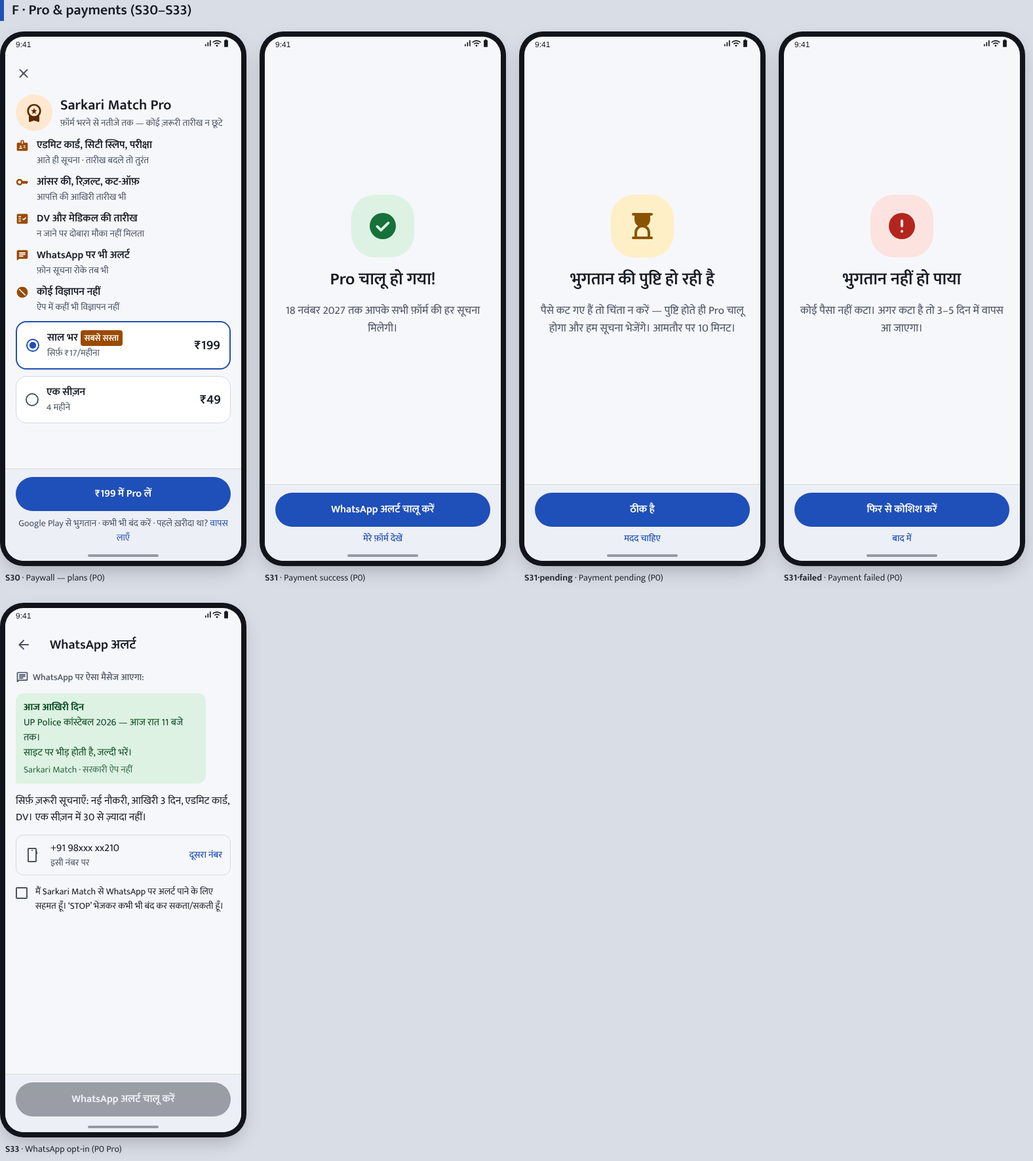
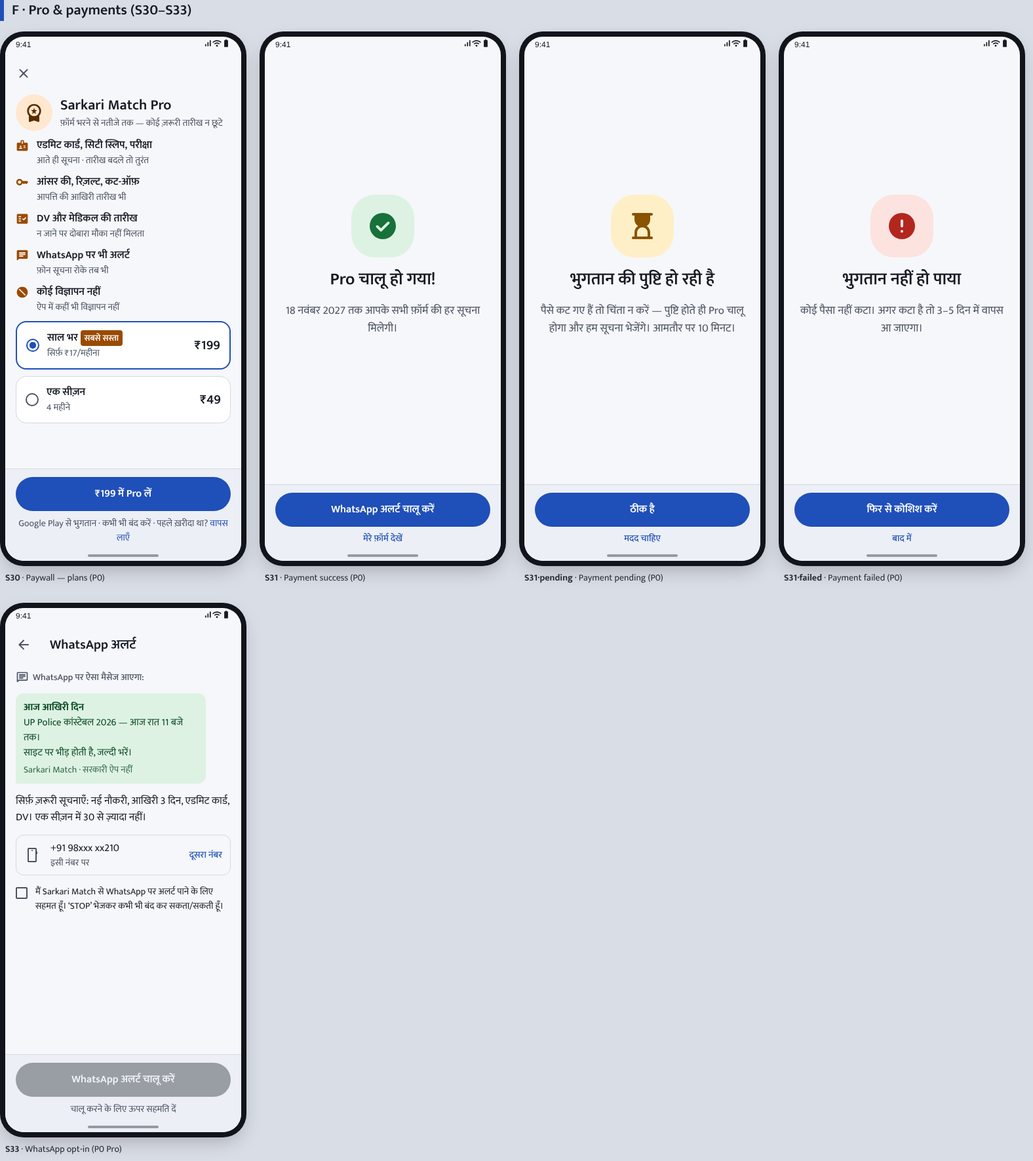
WIP: design and backend docs (in progress)
Claude-Session: https://claude.ai/code/session_01H5W9Z4TjtcufX7MnqXaKg7

Changed region(s): [[0.0, 0.9001, 0.2487, 0.9622]]

diff --git a/docs/design/prototype/index.html b/docs/design/prototype/index.html
@@ -310,7 +310,7 @@ figcaption b{font-weight:700}
 <div class="banner b-pro"><span class="ms f " aria-hidden="true">workspace_premium</span><span>Pro ट्रायल · 9 दिन बाकी</span><span class="act">प्लान देखें</span></div>
 <div class="card"><div class="tm">SSC CGL 2026</div><div class="bs mu" style="margin-top:-6px">भरा: 12 अग</div><div class="chips"><span class="chip b-pri"><span class="ms f " aria-hidden="true">badge</span>एडमिट कार्ड आ गया</span></div><div class="bs mu">अगला: परीक्षा — 2 दिसं</div><div class="dots"><i class="d"></i><i class="d"></i><i class="c"></i><i></i><i></i><i></i><i></i><i></i></div></div>
 <div class="card"><div class="tm">RRB Group D 2026</div><div class="bs mu" style="margin-top:-6px">भरा: 3 सितं</div><div class="chips"><span class="chip b-pri"><span class="ms f " aria-hidden="true">location_city</span>परीक्षा शहर की सूचना</span></div><div class="bs mu">अगला: एडमिट कार्ड — दिसं (संभावित)</div><div class="dots"><i class="d"></i><i class="c"></i><i></i><i></i><i></i><i></i><i></i><i></i></div></div></div><div class="bn"><div class="it"><div class="pill"><span class="ms " aria-hidden="true">work</span><span class="bd">5</span></div>नौकरियाँ</div><div class="it on"><div class="pill"><span class="ms f " aria-hidden="true">assignment_turned_in</span></div>मेरे फ़ॉर्म</div><div class="it"><div class="pill"><span class="ms " aria-hidden="true">account_circle</span></div>प्रोफ़ाइल</div></div><div class="nav" style="background:var(--surfaceContainer)"><i></i></div></div><figcaption><b>S22</b> · My forms — tracker (Pro/trial) (P0)</figcaption></figure><figure><div class="phone" style="--primary:#1F4FB8;--onPrimary:#FFFFFF;--primaryContainer:#DCE5FF;--onPrimaryContainer:#0B2A6E;--secondary:#4E5B78;--onSecondary:#FFFFFF;--secondaryContainer:#E1E6F3;--onSecondaryContainer:#1A2438;--tertiary:#9A4A00;--onTertiary:#FFFFFF;--tertiaryContainer:#FFE8CF;--onTertiaryContainer:#5C2C00;--error:#B3261E;--onError:#FFFFFF;--errorContainer:#FCE3E0;--onErrorContainer:#7A1410;--background:#F6F7FA;--onBackground:#151A23;--surface:#F6F7FA;--onSurface:#151A23;--surfaceVariant:#ECEFF5;--onSurfaceVariant:#4A5263;--surfaceContainerLowest:#FFFFFF;--surfaceContainerLow:#F1F3F8;--surfaceContainer:#ECEFF5;--surfaceContainerHigh:#E6E9F0;--surfaceContainerHighest:#E0E4EC;--outline:#737B8C;--outlineVariant:#D3D8E2;--inverseSurface:#2A2F38;--inverseOnSurface:#EFF1F6;--inversePrimary:#AEC4FF;--scrim:#000000;--success:#17713A;--onSuccess:#FFFFFF;--successContainer:#DDF2E3;--onSuccessContainer:#0B4A24;--warning:#8A5300;--onWarning:#FFFFFF;--warningContainer:#FFEFC7;--onWarningContainer:#5A3600;--urgent:#B93D0A;--onUrgent:#FFFFFF;--urgentContainer:#FFE6D8;--onUrgentContainer:#6E2304;--today:#B3261E;--onToday:#FFFFFF;--whatsappBrand:#25D366;"><div class="sb"><span>9:41</span><span><span class="ms " aria-hidden="true">signal_cellular_alt</span><span class="ms " aria-hidden="true">wifi</span><span class="ms " aria-hidden="true">battery_full</span></span></div><div class="tb"><div class="t">मेरे फ़ॉर्म</div></div><div class="content" style="padding-top:0">
-<div class="banner b-pro" style="align-items:flex-start"><span class="ms f " aria-hidden="true">workspace_premium</span><span>फ़ॉर्म भरने के बाद की सूचना (एडमिट कार्ड, रिज़ल्ट) Pro में मिलती है</span><span class="act">₹17/महीना से</span></div>
+<div class="banner b-pro" style="align-items:flex-start"><span class="ms f " aria-hidden="true">workspace_premium</span><span>एडमिट कार्ड, रिज़ल्ट की सूचना Pro में</span><span class="act">₹17/महीना से</span></div>
 <div class="card"><div class="tm">SSC CGL 2026</div><div class="bs mu" style="margin-top:-6px">भरा: 12 अग</div><div class="chips"><span class="chip b-pri"><span class="ms f " aria-hidden="true">task_alt</span>फ़ॉर्म भरा</span></div><div class="bs" style="display:flex;gap:6px;align-items:center;color:var(--tertiary)"><span class="ms f s16" aria-hidden="true">lock</span>अगला चरण: एडमिट कार्ड · सूचना Pro में</div><div class="dots"><i class="c"></i><i></i><i></i><i></i><i></i><i></i><i></i><i></i></div></div>
 <div class="card"><div class="tm">RRB Group D 2026</div><div class="bs mu" style="margin-top:-6px">भरा: 3 सितं</div><div class="chips"><span class="chip b-pri"><span class="ms f " aria-hidden="true">task_alt</span>फ़ॉर्म भरा</span></div><div class="bs" style="display:flex;gap:6px;align-items:center;color:var(--tertiary)"><span class="ms f s16" aria-hidden="true">lock</span>अगला चरण: सिटी स्लिप · सूचना Pro में</div><div class="dots"><i class="c"></i><i></i><i></i><i></i><i></i><i></i><i></i><i></i></div></div></div><div class="bn"><div class="it"><div class="pill"><span class="ms " aria-hidden="true">work</span><span class="bd">5</span></div>नौकरियाँ</div><div class="it on"><div class="pill"><span class="ms f " aria-hidden="true">assignment_turned_in</span></div>मेरे फ़ॉर्म</div><div class="it"><div class="pill"><span class="ms " aria-hidden="true">account_circle</span></div>प्रोफ़ाइल</div></div><div class="nav" style="background:var(--surfaceContainer)"><i></i></div></div><figcaption><b>S22·free</b> · My forms — free user, locked lifecycle</figcaption></figure><figure><div class="phone" style="--primary:#1F4FB8;--onPrimary:#FFFFFF;--primaryContainer:#DCE5FF;--onPrimaryContainer:#0B2A6E;--secondary:#4E5B78;--onSecondary:#FFFFFF;--secondaryContainer:#E1E6F3;--onSecondaryContainer:#1A2438;--tertiary:#9A4A00;--onTertiary:#FFFFFF;--tertiaryContainer:#FFE8CF;--onTertiaryContainer:#5C2C00;--error:#B3261E;--onError:#FFFFFF;--errorContainer:#FCE3E0;--onErrorContainer:#7A1410;--background:#F6F7FA;--onBackground:#151A23;--surface:#F6F7FA;--onSurface:#151A23;--surfaceVariant:#ECEFF5;--onSurfaceVariant:#4A5263;--surfaceContainerLowest:#FFFFFF;--surfaceContainerLow:#F1F3F8;--surfaceContainer:#ECEFF5;--surfaceContainerHigh:#E6E9F0;--surfaceContainerHighest:#E0E4EC;--outline:#737B8C;--outlineVariant:#D3D8E2;--inverseSurface:#2A2F38;--inverseOnSurface:#EFF1F6;--inversePrimary:#AEC4FF;--scrim:#000000;--success:#17713A;--onSuccess:#FFFFFF;--successContainer:#DDF2E3;--onSuccessContainer:#0B4A24;--warning:#8A5300;--onWarning:#FFFFFF;--warningContainer:#FFEFC7;--onWarningContainer:#5A3600;--urgent:#B93D0A;--onUrgent:#FFFFFF;--urgentContainer:#FFE6D8;--onUrgentContainer:#6E2304;--today:#B3261E;--onToday:#FFFFFF;--whatsappBrand:#25D366;"><div class="sb"><span>9:41</span><span><span class="ms " aria-hidden="true">signal_cellular_alt</span><span class="ms " aria-hidden="true">wifi</span><span class="ms " aria-hidden="true">battery_full</span></span></div><div class="tb"><div class="ib"><span class="ms " aria-hidden="true">arrow_back</span></div><div class="t">SSC CGL 2026</div></div><div class="content" style="padding-top:0;gap:10px">
 <div class="card" style="background:var(--primaryContainer);color:var(--onPrimaryContainer);border:none"><div class="ts" style="display:flex;gap:8px;align-items:center"><span class="ms f " aria-hidden="true">badge</span>एडमिट कार्ड आ गया</div><div class="bm">परीक्षा: 2 दिसंबर, सुबह 9 बजे · रिपोर्टिंग 7:30</div><div style="display:flex;gap:8px"><div class="btn p sm "><span class="ms " aria-hidden="true">download</span>एडमिट कार्ड (PDF)</div></div></div>
@@ -338,7 +338,7 @@ figcaption b{font-weight:700}
 <div class="wa"><b>आज आखिरी दिन</b><br>UP Police कांस्टेबल 2026 — आज रात 11 बजे तक।<br>साइट पर भीड़ होती है, जल्दी भरें।<div class="bs" style="opacity:.8;margin-top:4px">Sarkari Match · सरकारी ऐप नहीं</div></div>
 <div class="bm">सिर्फ़ ज़रूरी सूचनाएँ: नई नौकरी, आखिरी 3 दिन, एडमिट कार्ड, DV। एक सीज़न में 30 से ज़्यादा नहीं।</div>
 <div class="li" style="border:1px solid var(--outlineVariant);border-radius:12px;padding:8px 12px"><span class="ms l" aria-hidden="true">smartphone</span><div class="tx"><div>+91 98xxx xx210</div><div>इसी नंबर पर</div></div><span class="lm pr">दूसरा नंबर</span></div>
-<div style="display:flex;gap:12px;align-items:flex-start"><div class="cb" style="margin-top:4px"></div><div class="bs">मैं Sarkari Match से WhatsApp पर अलर्ट पाने के लिए सहमत हूँ। ‘STOP’ भेजकर कभी भी बंद कर सकता/सकती हूँ।</div></div></div><div class="bab"><div class="btn p dis ">WhatsApp अलर्ट चालू करें</div></div><div class="nav" style="background:var(--surfaceContainer)"><i></i></div></div><figcaption><b>S33</b> · WhatsApp opt-in (P0 Pro)</figcaption></figure></div></section><section class="group" id="gG"><h2>G · States & edge cases</h2><div class="row"><figure><div class="phone" style="--primary:#1F4FB8;--onPrimary:#FFFFFF;--primaryContainer:#DCE5FF;--onPrimaryContainer:#0B2A6E;--secondary:#4E5B78;--onSecondary:#FFFFFF;--secondaryContainer:#E1E6F3;--onSecondaryContainer:#1A2438;--tertiary:#9A4A00;--onTertiary:#FFFFFF;--tertiaryContainer:#FFE8CF;--onTertiaryContainer:#5C2C00;--error:#B3261E;--onError:#FFFFFF;--errorContainer:#FCE3E0;--onErrorContainer:#7A1410;--background:#F6F7FA;--onBackground:#151A23;--surface:#F6F7FA;--onSurface:#151A23;--surfaceVariant:#ECEFF5;--onSurfaceVariant:#4A5263;--surfaceContainerLowest:#FFFFFF;--surfaceContainerLow:#F1F3F8;--surfaceContainer:#ECEFF5;--surfaceContainerHigh:#E6E9F0;--surfaceContainerHighest:#E0E4EC;--outline:#737B8C;--outlineVariant:#D3D8E2;--inverseSurface:#2A2F38;--inverseOnSurface:#EFF1F6;--inversePrimary:#AEC4FF;--scrim:#000000;--success:#17713A;--onSuccess:#FFFFFF;--successContainer:#DDF2E3;--onSuccessContainer:#0B4A24;--warning:#8A5300;--onWarning:#FFFFFF;--warningContainer:#FFEFC7;--onWarningContainer:#5A3600;--urgent:#B93D0A;--onUrgent:#FFFFFF;--urgentContainer:#FFE6D8;--onUrgentContainer:#6E2304;--today:#B3261E;--onToday:#FFFFFF;--whatsappBrand:#25D366;"><div class="sb"><span>9:41</span><span><span class="ms " aria-hidden="true">signal_cellular_alt</span><span class="ms " aria-hidden="true">wifi</span><span class="ms " aria-hidden="true">battery_full</span></span></div><div class="tb"><div class="t brand">Sarkari Match</div><div class="ib"><span class="ms " aria-hidden="true">notifications</span><span class=bd>2</span></div><div class="ib"><span class="ms " aria-hidden="true">help</span></div><div class="ib"><span class="ms " aria-hidden="true">more_vert</span></div></div><div class="content center" style="text-align:center;align-items:center;gap:12px"><span class="ms s48 pr" aria-hidden="true">notifications_active</span><div class="tm">अभी आपके लिए कोई खुली नौकरी नहीं है</div><div class="bm mu" style="max-width:300px">नई नौकरी आते ही सूचना भेजेंगे। हर महीने 20–40 नए नोटिस आते हैं।</div><div class="btn o ">प्रोफ़ाइल देखें</div></div><div class="bn"><div class="it on"><div class="pill"><span class="ms f " aria-hidden="true">work</span></div>नौकरियाँ</div><div class="it"><div class="pill"><span class="ms " aria-hidden="true">assignment_turned_in</span></div>मेरे फ़ॉर्म</div><div class="it"><div class="pill"><span class="ms " aria-hidden="true">account_circle</span></div>प्रोफ़ाइल</div></div><div class="nav" style="background:var(--surfaceContainer)"><i></i></div></div><figcaption><b>S20·empty</b> · Home — no matches yet</figcaption></figure><figure><div class="phone" style="--primary:#1F4FB8;--onPrimary:#FFFFFF;--primaryContainer:#DCE5FF;--onPrimaryContainer:#0B2A6E;--secondary:#4E5B78;--onSecondary:#FFFFFF;--secondaryContainer:#E1E6F3;--onSecondaryContainer:#1A2438;--tertiary:#9A4A00;--onTertiary:#FFFFFF;--tertiaryContainer:#FFE8CF;--onTertiaryContainer:#5C2C00;--error:#B3261E;--onError:#FFFFFF;--errorContainer:#FCE3E0;--onErrorContainer:#7A1410;--background:#F6F7FA;--onBackground:#151A23;--surface:#F6F7FA;--onSurface:#151A23;--surfaceVariant:#ECEFF5;--onSurfaceVariant:#4A5263;--surfaceContainerLowest:#FFFFFF;--surfaceContainerLow:#F1F3F8;--surfaceContainer:#ECEFF5;--surfaceContainerHigh:#E6E9F0;--surfaceContainerHighest:#E0E4EC;--outline:#737B8C;--outlineVariant:#D3D8E2;--inverseSurface:#2A2F38;--inverseOnSurface:#EFF1F6;--inversePrimary:#AEC4FF;--scrim:#000000;--success:#17713A;--onSuccess:#FFFFFF;--successContainer:#DDF2E3;--onSuccessContainer:#0B4A24;--warning:#8A5300;--onWarning:#FFFFFF;--warningContainer:#FFEFC7;--onWarningContainer:#5A3600;--urgent:#B93D0A;--onUrgent:#FFFFFF;--urgentContainer:#FFE6D8;--onUrgentContainer:#6E2304;--today:#B3261E;--onToday:#FFFFFF;--whatsappBrand:#25D366;"><div class="sb"><span>9:41</span><span><span class="ms " aria-hidden="true">signal_cellular_alt</span><span class="ms " aria-hidden="true">wifi</span><span class="ms " aria-hidden="true">battery_full</span></span></div><div class="tb"><div class="t brand">Sarkari Match</div><div class="ib"><span class="ms " aria-hidden="true">notifications</span><span class=bd>2</span></div><div class="ib"><span class="ms " aria-hidden="true">help</span></div><div class="ib"><span class="ms " aria-hidden="true">more_vert</span></div></div><div class="content" style="padding-top:0"><div class="banner b-neu"><span class="ms " aria-hidden="true">cloud_off</span><span>इंटरनेट नहीं है · 2 घंटे पहले की जानकारी</span></div>
+<div style="display:flex;gap:12px;align-items:flex-start"><div class="cb" style="margin-top:4px"></div><div class="bs">मैं Sarkari Match से WhatsApp पर अलर्ट पाने के लिए सहमत हूँ। ‘STOP’ भेजकर कभी भी बंद कर सकता/सकती हूँ।</div></div></div><div class="bab"><div class="btn p dis ">WhatsApp अलर्ट चालू करें</div><div class="bs mu" style="text-align:center">चालू करने के लिए ऊपर सहमति दें</div></div><div class="nav" style="background:var(--surfaceContainer)"><i></i></div></div><figcaption><b>S33</b> · WhatsApp opt-in (P0 Pro)</figcaption></figure></div></section><section class="group" id="gG"><h2>G · States & edge cases</h2><div class="row"><figure><div class="phone" style="--primary:#1F4FB8;--onPrimary:#FFFFFF;--primaryContainer:#DCE5FF;--onPrimaryContainer:#0B2A6E;--secondary:#4E5B78;--onSecondary:#FFFFFF;--secondaryContainer:#E1E6F3;--onSecondaryContainer:#1A2438;--tertiary:#9A4A00;--onTertiary:#FFFFFF;--tertiaryContainer:#FFE8CF;--onTertiaryContainer:#5C2C00;--error:#B3261E;--onError:#FFFFFF;--errorContainer:#FCE3E0;--onErrorContainer:#7A1410;--background:#F6F7FA;--onBackground:#151A23;--surface:#F6F7FA;--onSurface:#151A23;--surfaceVariant:#ECEFF5;--onSurfaceVariant:#4A5263;--surfaceContainerLowest:#FFFFFF;--surfaceContainerLow:#F1F3F8;--surfaceContainer:#ECEFF5;--surfaceContainerHigh:#E6E9F0;--surfaceContainerHighest:#E0E4EC;--outline:#737B8C;--outlineVariant:#D3D8E2;--inverseSurface:#2A2F38;--inverseOnSurface:#EFF1F6;--inversePrimary:#AEC4FF;--scrim:#000000;--success:#17713A;--onSuccess:#FFFFFF;--successContainer:#DDF2E3;--onSuccessContainer:#0B4A24;--warning:#8A5300;--onWarning:#FFFFFF;--warningContainer:#FFEFC7;--onWarningContainer:#5A3600;--urgent:#B93D0A;--onUrgent:#FFFFFF;--urgentContainer:#FFE6D8;--onUrgentContainer:#6E2304;--today:#B3261E;--onToday:#FFFFFF;--whatsappBrand:#25D366;"><div class="sb"><span>9:41</span><span><span class="ms " aria-hidden="true">signal_cellular_alt</span><span class="ms " aria-hidden="true">wifi</span><span class="ms " aria-hidden="true">battery_full</span></span></div><div class="tb"><div class="t brand">Sarkari Match</div><div class="ib"><span class="ms " aria-hidden="true">notifications</span><span class=bd>2</span></div><div class="ib"><span class="ms " aria-hidden="true">help</span></div><div class="ib"><span class="ms " aria-hidden="true">more_vert</span></div></div><div class="content center" style="text-align:center;align-items:center;gap:12px"><span class="ms s48 pr" aria-hidden="true">notifications_active</span><div class="tm">अभी आपके लिए कोई खुली नौकरी नहीं है</div><div class="bm mu" style="max-width:300px">नई नौकरी आते ही सूचना भेजेंगे। हर महीने 20–40 नए नोटिस आते हैं।</div><div class="btn o ">प्रोफ़ाइल देखें</div></div><div class="bn"><div class="it on"><div class="pill"><span class="ms f " aria-hidden="true">work</span></div>नौकरियाँ</div><div class="it"><div class="pill"><span class="ms " aria-hidden="true">assignment_turned_in</span></div>मेरे फ़ॉर्म</div><div class="it"><div class="pill"><span class="ms " aria-hidden="true">account_circle</span></div>प्रोफ़ाइल</div></div><div class="nav" style="background:var(--surfaceContainer)"><i></i></div></div><figcaption><b>S20·empty</b> · Home — no matches yet</figcaption></figure><figure><div class="phone" style="--primary:#1F4FB8;--onPrimary:#FFFFFF;--primaryContainer:#DCE5FF;--onPrimaryContainer:#0B2A6E;--secondary:#4E5B78;--onSecondary:#FFFFFF;--secondaryContainer:#E1E6F3;--onSecondaryContainer:#1A2438;--tertiary:#9A4A00;--onTertiary:#FFFFFF;--tertiaryContainer:#FFE8CF;--onTertiaryContainer:#5C2C00;--error:#B3261E;--onError:#FFFFFF;--errorContainer:#FCE3E0;--onErrorContainer:#7A1410;--background:#F6F7FA;--onBackground:#151A23;--surface:#F6F7FA;--onSurface:#151A23;--surfaceVariant:#ECEFF5;--onSurfaceVariant:#4A5263;--surfaceContainerLowest:#FFFFFF;--surfaceContainerLow:#F1F3F8;--surfaceContainer:#ECEFF5;--surfaceContainerHigh:#E6E9F0;--surfaceContainerHighest:#E0E4EC;--outline:#737B8C;--outlineVariant:#D3D8E2;--inverseSurface:#2A2F38;--inverseOnSurface:#EFF1F6;--inversePrimary:#AEC4FF;--scrim:#000000;--success:#17713A;--onSuccess:#FFFFFF;--successContainer:#DDF2E3;--onSuccessContainer:#0B4A24;--warning:#8A5300;--onWarning:#FFFFFF;--warningContainer:#FFEFC7;--onWarningContainer:#5A3600;--urgent:#B93D0A;--onUrgent:#FFFFFF;--urgentContainer:#FFE6D8;--onUrgentContainer:#6E2304;--today:#B3261E;--onToday:#FFFFFF;--whatsappBrand:#25D366;"><div class="sb"><span>9:41</span><span><span class="ms " aria-hidden="true">signal_cellular_alt</span><span class="ms " aria-hidden="true">wifi</span><span class="ms " aria-hidden="true">battery_full</span></span></div><div class="tb"><div class="t brand">Sarkari Match</div><div class="ib"><span class="ms " aria-hidden="true">notifications</span><span class=bd>2</span></div><div class="ib"><span class="ms " aria-hidden="true">help</span></div><div class="ib"><span class="ms " aria-hidden="true">more_vert</span></div></div><div class="content" style="padding-top:0"><div class="banner b-neu"><span class="ms " aria-hidden="true">cloud_off</span><span>इंटरनेट नहीं है · 2 घंटे पहले की जानकारी</span></div>
 <div class="sec"><span class="ms f no" aria-hidden="true">alarm</span>आज आखिरी दिन<span class="cnt">1</span></div>
 <div class="card"><div class="stripe" style="background:var(--today)"></div><div class="chips"><span class="chip v-ok"><span class="ms f " aria-hidden="true">check_circle</span>योग्य</span><span class="chip d-today"><span class="ms f " aria-hidden="true">alarm</span>आज आखिरी दिन</span></div><div class="tm">UP Police कांस्टेबल भर्ती 2026</div><div class="bs mu" style="margin-top:-6px">UPPRPB · 19,220 पद</div><div class="meta"><span><span class="ms " aria-hidden="true">currency_rupee</span>₹400 फ़ीस</span></div><div class="rule"><span class="ms f ok">check_circle</span><div><b>उम्र:</b> 23 (सीमा 27)</div></div><div class="div"></div><div class="acts"><div class="btn tn sm "><span class="ms " aria-hidden="true">task_alt</span>फ़ॉर्म भर दिया</div><div class="btn t ">बाद में</div><div class="ib" style="margin-left:auto"><span class="ms " aria-hidden="true">more_vert</span></div></div></div>
 <div class="lm mu">लोड हो रहा है (skeleton):</div><div class="card"><div class="chips"><div class="skel" style="width:80px;height:28px"></div><div class="skel" style="width:96px;height:28px"></div></div><div class="skel" style="width:85%;height:20px"></div><div class="skel" style="width:60%"></div><div class="skel" style="width:70%"></div></div></div>
@@ -347,9 +347,9 @@ figcaption b{font-weight:700}
 <div class="card"><div class="stripe" style="background:var(--urgent)"></div><div class="chips"><span class="chip v-ok"><span class="ms f " aria-hidden="true">check_circle</span>योग्य</span><span class="chip d-urgent"><span class="ms f " aria-hidden="true">timer</span>2 दिन बाकी</span></div><div class="tm">SSC GD कांस्टेबल 2027</div><div class="bs mu" style="margin-top:-6px">कर्मचारी चयन आयोग · 39,481 पद</div><div class="meta"><span><span class="ms " aria-hidden="true">currency_rupee</span>₹100 फ़ीस</span><span><span class="ms " aria-hidden="true">school</span>10वीं पास</span></div><div class="rule"><span class="ms f ok">check_circle</span><div><b>उम्र:</b> 23 (सीमा 26)</div></div><div class="div"></div><div class="acts"><div class="btn tn sm "><span class="ms " aria-hidden="true">task_alt</span>फ़ॉर्म भर दिया</div><div class="btn t ">बाद में</div><div class="ib" style="margin-left:auto"><span class="ms " aria-hidden="true">more_vert</span></div></div></div></div>
 <div class="snack">छुपा दिया: IBPS क्लर्क 2026<b>वापस लाएँ</b></div><div class="bn"><div class="it on"><div class="pill"><span class="ms f " aria-hidden="true">work</span><span class="bd">4</span></div>नौकरियाँ</div><div class="it"><div class="pill"><span class="ms " aria-hidden="true">assignment_turned_in</span></div>मेरे फ़ॉर्म</div><div class="it"><div class="pill"><span class="ms " aria-hidden="true">account_circle</span></div>प्रोफ़ाइल</div></div><div class="nav" style="background:var(--surfaceContainer)"><i></i></div></div><figcaption><b>S20·notif-off</b> · Permission denied banner + undo snackbar</figcaption></figure><figure><div class="phone" style="--primary:#1F4FB8;--onPrimary:#FFFFFF;--primaryContainer:#DCE5FF;--onPrimaryContainer:#0B2A6E;--secondary:#4E5B78;--onSecondary:#FFFFFF;--secondaryContainer:#E1E6F3;--onSecondaryContainer:#1A2438;--tertiary:#9A4A00;--onTertiary:#FFFFFF;--tertiaryContainer:#FFE8CF;--onTertiaryContainer:#5C2C00;--error:#B3261E;--onError:#FFFFFF;--errorContainer:#FCE3E0;--onErrorContainer:#7A1410;--background:#F6F7FA;--onBackground:#151A23;--surface:#F6F7FA;--onSurface:#151A23;--surfaceVariant:#ECEFF5;--onSurfaceVariant:#4A5263;--surfaceContainerLowest:#FFFFFF;--surfaceContainerLow:#F1F3F8;--surfaceContainer:#ECEFF5;--surfaceContainerHigh:#E6E9F0;--surfaceContainerHighest:#E0E4EC;--outline:#737B8C;--outlineVariant:#D3D8E2;--inverseSurface:#2A2F38;--inverseOnSurface:#EFF1F6;--inversePrimary:#AEC4FF;--scrim:#000000;--success:#17713A;--onSuccess:#FFFFFF;--successContainer:#DDF2E3;--onSuccessContainer:#0B4A24;--warning:#8A5300;--onWarning:#FFFFFF;--warningContainer:#FFEFC7;--onWarningContainer:#5A3600;--urgent:#B93D0A;--onUrgent:#FFFFFF;--urgentContainer:#FFE6D8;--onUrgentContainer:#6E2304;--today:#B3261E;--onToday:#FFFFFF;--whatsappBrand:#25D366;"><div class="sb"><span>9:41</span><span><span class="ms " aria-hidden="true">signal_cellular_alt</span><span class="ms " aria-hidden="true">wifi</span><span class="ms " aria-hidden="true">battery_full</span></span></div><div class="tb"><div class="ib"><span class="ms " aria-hidden="true">arrow_back</span></div><div class="t">नौकरी का ब्योरा</div><div class="ib"><span class="ms " aria-hidden="true">share</span></div><div class="ib"><span class="ms " aria-hidden="true">more_vert</span></div></div><div class="content" style="padding-top:0">
 <div class="card" style="gap:6px"><div class="chips"><span class="chip v-no"><span class="ms f " aria-hidden="true">cancel</span>अब योग्य नहीं</span><span class="chip d-soon"><span class="ms f " aria-hidden="true">schedule</span>6 दिन बाकी</span></div><div class="hs">UPSSSC VDO भर्ती 2026</div><div class="bm mu">UP अधीनस्थ सेवा चयन आयोग · 1,468 पद</div>
-<div class="banner b-err" style="align-items:flex-start"><span class="ms " aria-hidden="true">update</span><span><b>नोटिस बदला (18 नवं):</b> उम्र सीमा 40 → 35 हुई। इसलिए अब आप योग्य नहीं हैं।</span></div></div>
+<div class="banner b-err" style="align-items:flex-start"><span class="ms " aria-hidden="true">update</span><span><b>नोटिस बदला (18 नवं):</b> अब UPSSSC PET 2025 का स्कोर ज़रूरी है। इसलिए अब आप योग्य नहीं हैं।</span></div></div>
 <div class="card" style="gap:10px"><div class="tm" style="display:flex;gap:8px;align-items:center"><span class="ms pr" aria-hidden="true">fact_check</span>आप योग्य क्यों नहीं</div>
-<div class="rule"><span class="ms f no">cancel</span><div><b>उम्र:</b> 01-07-2026 को 23 साल — पर नई शर्त: PET 2025 स्कोर ज़रूरी</div></div><div class="rule"><span class="ms f ok">check_circle</span><div><b>पढ़ाई:</b> 12वीं पास — ठीक</div></div><div class="rule"><span class="ms f chk">help</span><div><b>PET स्कोर:</b> आपने PET स्कोर नहीं बताया <span class="pr" style="font-weight:600">जोड़ें</span></div></div>
+<div class="rule"><span class="ms f no">cancel</span><div><b>PET 2025:</b> स्कोर ज़रूरी — आपकी प्रोफ़ाइल में ‘PET नहीं दिया’</div></div><div class="rule"><span class="ms f ok">check_circle</span><div><b>उम्र:</b> 01-07-2026 को 23 साल — सीमा 18–40</div></div><div class="rule"><span class="ms f ok">check_circle</span><div><b>पढ़ाई:</b> 12वीं पास — ठीक</div></div>
 <div class="lm pr">मुझे लगता है मैं अब भी योग्य हूँ</div></div></div><div class="nav" style="background:var(--background)"><i></i></div></div><figcaption><b>S21·ineligible</b> · Corrigendum → no longer eligible (SC-19)</figcaption></figure><figure><div class="phone" style="--primary:#1F4FB8;--onPrimary:#FFFFFF;--primaryContainer:#DCE5FF;--onPrimaryContainer:#0B2A6E;--secondary:#4E5B78;--onSecondary:#FFFFFF;--secondaryContainer:#E1E6F3;--onSecondaryContainer:#1A2438;--tertiary:#9A4A00;--onTertiary:#FFFFFF;--tertiaryContainer:#FFE8CF;--onTertiaryContainer:#5C2C00;--error:#B3261E;--onError:#FFFFFF;--errorContainer:#FCE3E0;--onErrorContainer:#7A1410;--background:#F6F7FA;--onBackground:#151A23;--surface:#F6F7FA;--onSurface:#151A23;--surfaceVariant:#ECEFF5;--onSurfaceVariant:#4A5263;--surfaceContainerLowest:#FFFFFF;--surfaceContainerLow:#F1F3F8;--surfaceContainer:#ECEFF5;--surfaceContainerHigh:#E6E9F0;--surfaceContainerHighest:#E0E4EC;--outline:#737B8C;--outlineVariant:#D3D8E2;--inverseSurface:#2A2F38;--inverseOnSurface:#EFF1F6;--inversePrimary:#AEC4FF;--scrim:#000000;--success:#17713A;--onSuccess:#FFFFFF;--successContainer:#DDF2E3;--onSuccessContainer:#0B4A24;--warning:#8A5300;--onWarning:#FFFFFF;--warningContainer:#FFEFC7;--onWarningContainer:#5A3600;--urgent:#B93D0A;--onUrgent:#FFFFFF;--urgentContainer:#FFE6D8;--onUrgentContainer:#6E2304;--today:#B3261E;--onToday:#FFFFFF;--whatsappBrand:#25D366;"><div class="sb"><span>9:41</span><span><span class="ms " aria-hidden="true">signal_cellular_alt</span><span class="ms " aria-hidden="true">wifi</span><span class="ms " aria-hidden="true">battery_full</span></span></div><div class="tb"><div class="t">प्रोफ़ाइल</div></div><div class="content"></div><div class="scrim"></div><div class="sheet"><div class="handle"></div>
 <div class="tl" style="display:flex;gap:8px;align-items:center"><span class="ms f ok" aria-hidden="true">check_circle</span>प्रोफ़ाइल सेव हो गई</div>
 <div class="ts ok" style="display:flex;gap:8px;align-items:center"><span class="ms f " aria-hidden="true">add_circle</span>2 नई नौकरियाँ आपके लिए</div>
@@ -361,7 +361,7 @@ figcaption b{font-weight:700}
 <div class="li" style="border-bottom:1px solid var(--outlineVariant)"><span class="ms l" aria-hidden="true">download</span><div class="tx"><div>मेरा डेटा डाउनलोड करें</div><div>JSON फ़ाइल · प्रोफ़ाइल, जवाब, सूचनाएँ</div></div></div>
 <div class="ts no" style="margin-top:24px">सावधानी</div>
 <div class="li" style="border-bottom:1px solid var(--outlineVariant)"><span class="ms l" aria-hidden="true">logout</span><div class="tx"><div>लॉग आउट</div></div></div>
-<div class="li"><span class="ms no" aria-hidden="true">delete</span><div class="tx"><div class="no">अकाउंट हमेशा के लिए हटाएँ</div><div>7 दिन में सब कुछ हट जाएगा</div></div></div></div><div class="nav" style="background:var(--background)"><i></i></div></div><figcaption><b>S38</b> · Account & data (DPDP) (P0)</figcaption></figure><figure><div class="phone" style="--primary:#1F4FB8;--onPrimary:#FFFFFF;--primaryContainer:#DCE5FF;--onPrimaryContainer:#0B2A6E;--secondary:#4E5B78;--onSecondary:#FFFFFF;--secondaryContainer:#E1E6F3;--onSecondaryContainer:#1A2438;--tertiary:#9A4A00;--onTertiary:#FFFFFF;--tertiaryContainer:#FFE8CF;--onTertiaryContainer:#5C2C00;--error:#B3261E;--onError:#FFFFFF;--errorContainer:#FCE3E0;--onErrorContainer:#7A1410;--background:#F6F7FA;--onBackground:#151A23;--surface:#F6F7FA;--onSurface:#151A23;--surfaceVariant:#ECEFF5;--onSurfaceVariant:#4A5263;--surfaceContainerLowest:#FFFFFF;--surfaceContainerLow:#F1F3F8;--surfaceContainer:#ECEFF5;--surfaceContainerHigh:#E6E9F0;--surfaceContainerHighest:#E0E4EC;--outline:#737B8C;--outlineVariant:#D3D8E2;--inverseSurface:#2A2F38;--inverseOnSurface:#EFF1F6;--inversePrimary:#AEC4FF;--scrim:#000000;--success:#17713A;--onSuccess:#FFFFFF;--successContainer:#DDF2E3;--onSuccessContainer:#0B4A24;--warning:#8A5300;--onWarning:#FFFFFF;--warningContainer:#FFEFC7;--onWarningContainer:#5A3600;--urgent:#B93D0A;--onUrgent:#FFFFFF;--urgentContainer:#FFE6D8;--onUrgentContainer:#6E2304;--today:#B3261E;--onToday:#FFFFFF;--whatsappBrand:#25D366;"><div class="sb"><span>9:41</span><span><span class="ms " aria-hidden="true">signal_cellular_alt</span><span class="ms " aria-hidden="true">wifi</span><span class="ms " aria-hidden="true">battery_full</span></span></div><div class="tb"><div class="ib"><span class="ms " aria-hidden="true">arrow_back</span></div><div class="t">अकाउंट और डेटा</div></div><div class="content"></div><div class="scrim"></div><div class="dialog"><span class="ms no" aria-hidden="true">delete</span><div class="tl">अकाउंट हमेशा के लिए हटाएँ?</div><div class="bm mu">यह वापस नहीं होगा। पुष्टि के लिए +91 98xxx xx210 पर OTP भेजेंगे।</div><div class="field"><label>OTP</label><span class="mu">6 अंक</span></div><div style="display:flex;justify-content:flex-end;gap:8px"><div class="btn t ">रद्द करें</div><div class="btn t err ">हटाएँ</div></div></div><div class="nav" style="background:var(--background)"><i></i></div></div><figcaption><b>D03</b> · Delete account confirm (P0)</figcaption></figure><figure><div class="phone" style="--primary:#1F4FB8;--onPrimary:#FFFFFF;--primaryContainer:#DCE5FF;--onPrimaryContainer:#0B2A6E;--secondary:#4E5B78;--onSecondary:#FFFFFF;--secondaryContainer:#E1E6F3;--onSecondaryContainer:#1A2438;--tertiary:#9A4A00;--onTertiary:#FFFFFF;--tertiaryContainer:#FFE8CF;--onTertiaryContainer:#5C2C00;--error:#B3261E;--onError:#FFFFFF;--errorContainer:#FCE3E0;--onErrorContainer:#7A1410;--background:#F6F7FA;--onBackground:#151A23;--surface:#F6F7FA;--onSurface:#151A23;--surfaceVariant:#ECEFF5;--onSurfaceVariant:#4A5263;--surfaceContainerLowest:#FFFFFF;--surfaceContainerLow:#F1F3F8;--surfaceContainer:#ECEFF5;--surfaceContainerHigh:#E6E9F0;--surfaceContainerHighest:#E0E4EC;--outline:#737B8C;--outlineVariant:#D3D8E2;--inverseSurface:#2A2F38;--inverseOnSurface:#EFF1F6;--inversePrimary:#AEC4FF;--scrim:#000000;--success:#17713A;--onSuccess:#FFFFFF;--successContainer:#DDF2E3;--onSuccessContainer:#0B4A24;--warning:#8A5300;--onWarning:#FFFFFF;--warningContainer:#FFEFC7;--onWarningContainer:#5A3600;--urgent:#B93D0A;--onUrgent:#FFFFFF;--urgentContainer:#FFE6D8;--onUrgentContainer:#6E2304;--today:#B3261E;--onToday:#FFFFFF;--whatsappBrand:#25D366;"><div class="sb"><span>9:41</span><span><span class="ms " aria-hidden="true">signal_cellular_alt</span><span class="ms " aria-hidden="true">wifi</span><span class="ms " aria-hidden="true">battery_full</span></span></div><div class="content center" style="text-align:center;gap:16px;align-items:center"><div class="ic-circle" style="background:var(--primaryContainer);width:96px;height:96px"><span class="ms f s48" style="color:var(--primary)" aria-hidden="true">system_update</span></div><div class="hm">ज़रूरी अपडेट</div><div class="bl mu">नए वर्ज़न में अलर्ट सही समय पर आते हैं। आगे बढ़ने के लिए अपडेट करें।</div></div><div class="bab"><div class="btn p ">अपडेट करें</div></div><div class="nav" style="background:var(--surfaceContainer)"><i></i></div></div><figcaption><b>S41</b> · Force update (P0)</figcaption></figure></div></section><section class="group" id="gH"><h2>H · Dark mode</h2><div class="row"><figure><div class="phone dark" style="--primary:#AEC4FF;--onPrimary:#0B2A6E;--primaryContainer:#22408C;--onPrimaryContainer:#DCE5FF;--secondary:#BAC6E3;--onSecondary:#24304A;--secondaryContainer:#3A4660;--onSecondaryContainer:#DCE3F7;--tertiary:#FFB977;--onTertiary:#4F2600;--tertiaryContainer:#472500;--onTertiaryContainer:#FFDDBC;--error:#FFB4AB;--onError:#690005;--errorContainer:#5A1611;--onErrorContainer:#FFDAD5;--background:#11141B;--onBackground:#E5E8EF;--surface:#11141B;--onSurface:#E5E8EF;--surfaceVariant:#2D3340;--onSurfaceVariant:#B5BCC9;--surfaceContainerLowest:#0C0F14;--surfaceContainerLow:#171B23;--surfaceContainer:#1B2029;--surfaceContainerHigh:#232833;--surfaceContainerHighest:#2D3340;--outline:#8C93A1;--outlineVariant:#3E4552;--inverseSurface:#E5E8EF;--inverseOnSurface:#2A2F38;--inversePrimary:#1F4FB8;--scrim:#000000;--success:#7FD49A;--onSuccess:#003919;--successContainer:#123B22;--onSuccessContainer:#C9F0D4;--warning:#F1C25A;--onWarning:#3F2D00;--warningContainer:#3B2B06;--onWarningContainer:#FFE3A3;--urgent:#FFB28C;--onUrgent:#511E00;--urgentContainer:#4A1E07;--onUrgentContainer:#FFDCCB;--today:#FFB4AB;--onToday:#410E0B;--whatsappBrand:#25D366;"><div class="sb"><span>9:41</span><span><span class="ms " aria-hidden="true">signal_cellular_alt</span><span class="ms " aria-hidden="true">wifi</span><span class="ms " aria-hidden="true">battery_full</span></span></div><div class="tb"><div class="t brand">Sarkari Match</div><div class="ib"><span class="ms " aria-hidden="true">notifications</span><span class=bd>2</span></div><div class="ib"><span class="ms " aria-hidden="true">help</span></div><div class="ib"><span class="ms " aria-hidden="true">more_vert</span></div></div><div class="content" style="padding-top:0"><div><div class="bl">नमस्ते, Ravi</div><div class="bs mu">आज 19 नवंबर · 5 नौकरियाँ आपका जवाब माँग रही हैं</div></div>
+<div class="li"><span class="ms no" aria-hidden="true">delete</span><div class="tx"><div class="no">अकाउंट हमेशा के लिए हटाएँ</div><div>7 दिन में सब कुछ हट जाएगा</div></div></div></div><div class="nav" style="background:var(--background)"><i></i></div></div><figcaption><b>S38</b> · Account & data (DPDP) (P0)</figcaption></figure><figure><div class="phone" style="--primary:#1F4FB8;--onPrimary:#FFFFFF;--primaryContainer:#DCE5FF;--onPrimaryContainer:#0B2A6E;--secondary:#4E5B78;--onSecondary:#FFFFFF;--secondaryContainer:#E1E6F3;--onSecondaryContainer:#1A2438;--tertiary:#9A4A00;--onTertiary:#FFFFFF;--tertiaryContainer:#FFE8CF;--onTertiaryContainer:#5C2C00;--error:#B3261E;--onError:#FFFFFF;--errorContainer:#FCE3E0;--onErrorContainer:#7A1410;--background:#F6F7FA;--onBackground:#151A23;--surface:#F6F7FA;--onSurface:#151A23;--surfaceVariant:#ECEFF5;--onSurfaceVariant:#4A5263;--surfaceContainerLowest:#FFFFFF;--surfaceContainerLow:#F1F3F8;--surfaceContainer:#ECEFF5;--surfaceContainerHigh:#E6E9F0;--surfaceContainerHighest:#E0E4EC;--outline:#737B8C;--outlineVariant:#D3D8E2;--inverseSurface:#2A2F38;--inverseOnSurface:#EFF1F6;--inversePrimary:#AEC4FF;--scrim:#000000;--success:#17713A;--onSuccess:#FFFFFF;--successContainer:#DDF2E3;--onSuccessContainer:#0B4A24;--warning:#8A5300;--onWarning:#FFFFFF;--warningContainer:#FFEFC7;--onWarningContainer:#5A3600;--urgent:#B93D0A;--onUrgent:#FFFFFF;--urgentContainer:#FFE6D8;--onUrgentContainer:#6E2304;--today:#B3261E;--onToday:#FFFFFF;--whatsappBrand:#25D366;"><div class="sb"><span>9:41</span><span><span class="ms " aria-hidden="true">signal_cellular_alt</span><span class="ms " aria-hidden="true">wifi</span><span class="ms " aria-hidden="true">battery_full</span></span></div><div class="tb"><div class="ib"><span class="ms " aria-hidden="true">arrow_back</span></div><div class="t">अकाउंट और डेटा</div></div><div class="content"></div><div class="scrim"></div><div class="dialog"><span class="ms no" aria-hidden="true">delete</span><div class="tl">अकाउंट हमेशा के लिए हटाएँ?</div><div class="bm mu">यह वापस नहीं होगा। पुष्टि के लिए +91 98xxx xx210 पर OTP भेजेंगे।</div><div class="field"><label>OTP</label><span class="mu">6 अंक</span></div><div style="display:flex;justify-content:flex-end;gap:8px"><div class="btn t ">रद्द करें</div><div style="opacity:.38" class="btn t err ">हटाएँ</div></div></div><div class="nav" style="background:var(--background)"><i></i></div></div><figcaption><b>D03</b> · Delete account confirm (P0)</figcaption></figure><figure><div class="phone" style="--primary:#1F4FB8;--onPrimary:#FFFFFF;--primaryContainer:#DCE5FF;--onPrimaryContainer:#0B2A6E;--secondary:#4E5B78;--onSecondary:#FFFFFF;--secondaryContainer:#E1E6F3;--onSecondaryContainer:#1A2438;--tertiary:#9A4A00;--onTertiary:#FFFFFF;--tertiaryContainer:#FFE8CF;--onTertiaryContainer:#5C2C00;--error:#B3261E;--onError:#FFFFFF;--errorContainer:#FCE3E0;--onErrorContainer:#7A1410;--background:#F6F7FA;--onBackground:#151A23;--surface:#F6F7FA;--onSurface:#151A23;--surfaceVariant:#ECEFF5;--onSurfaceVariant:#4A5263;--surfaceContainerLowest:#FFFFFF;--surfaceContainerLow:#F1F3F8;--surfaceContainer:#ECEFF5;--surfaceContainerHigh:#E6E9F0;--surfaceContainerHighest:#E0E4EC;--outline:#737B8C;--outlineVariant:#D3D8E2;--inverseSurface:#2A2F38;--inverseOnSurface:#EFF1F6;--inversePrimary:#AEC4FF;--scrim:#000000;--success:#17713A;--onSuccess:#FFFFFF;--successContainer:#DDF2E3;--onSuccessContainer:#0B4A24;--warning:#8A5300;--onWarning:#FFFFFF;--warningContainer:#FFEFC7;--onWarningContainer:#5A3600;--urgent:#B93D0A;--onUrgent:#FFFFFF;--urgentContainer:#FFE6D8;--onUrgentContainer:#6E2304;--today:#B3261E;--onToday:#FFFFFF;--whatsappBrand:#25D366;"><style>.fs2 .tm{font-size:36px;line-height:50px}.fs2 .bs,.fs2 .meta{font-size:28px;line-height:40px}.fs2 .meta .ms{font-size:28px}.fs2 .rule{font-size:30px;line-height:44px}.fs2 .chip{font-size:26px;height:auto;min-height:44px;line-height:36px;white-space:normal}.fs2 .chip .ms{font-size:28px}.fs2 .btn{font-size:30px;height:auto;min-height:64px;line-height:40px;white-space:normal;padding:8px 20px}.fs2 .tb .t{font-size:36px;line-height:50px}</style><div class="fs2" style="display:contents"><div class="sb"><span>9:41</span><span><span class="ms " aria-hidden="true">signal_cellular_alt</span><span class="ms " aria-hidden="true">wifi</span><span class="ms " aria-hidden="true">battery_full</span></span></div><div class="tb"><div class="t">नौकरियाँ</div><div class="ib"><span class="ms " aria-hidden="true">help</span></div></div><div class="content" style="padding-top:0"><div class="card"><div class="stripe" style="background:var(--urgent)"></div><div class="chips"><span class="chip v-ok"><span class="ms f " aria-hidden="true">check_circle</span>योग्य</span><span class="chip d-urgent"><span class="ms f " aria-hidden="true">timer</span>2 दिन बाकी</span></div><div class="tm">SSC GD कांस्टेबल 2027</div><div class="bs mu" style="margin-top:-6px">कर्मचारी चयन आयोग</div><div class="meta"><span><span class="ms " aria-hidden="true">currency_rupee</span>₹100 फ़ीस</span></div><div class="rule"><span class="ms f ok">check_circle</span><div><b>उम्र:</b> 23 (सीमा 26)</div></div></div></div><div class="bab"><div class="btn p "><span class="ms " aria-hidden="true">task_alt</span>फ़ॉर्म भर दिया</div><div class="btn o "><span class="ms " aria-hidden="true">snooze</span>बाद में</div></div></div><div class="nav" style="background:var(--surfaceContainer)"><i></i></div></div><figcaption><b>S20 @200%</b> · Font scale 2.0: chips wrap, title wraps, actions stack (no clipping)</figcaption></figure><figure><div class="phone" style="--primary:#1F4FB8;--onPrimary:#FFFFFF;--primaryContainer:#DCE5FF;--onPrimaryContainer:#0B2A6E;--secondary:#4E5B78;--onSecondary:#FFFFFF;--secondaryContainer:#E1E6F3;--onSecondaryContainer:#1A2438;--tertiary:#9A4A00;--onTertiary:#FFFFFF;--tertiaryContainer:#FFE8CF;--onTertiaryContainer:#5C2C00;--error:#B3261E;--onError:#FFFFFF;--errorContainer:#FCE3E0;--onErrorContainer:#7A1410;--background:#F6F7FA;--onBackground:#151A23;--surface:#F6F7FA;--onSurface:#151A23;--surfaceVariant:#ECEFF5;--onSurfaceVariant:#4A5263;--surfaceContainerLowest:#FFFFFF;--surfaceContainerLow:#F1F3F8;--surfaceContainer:#ECEFF5;--surfaceContainerHigh:#E6E9F0;--surfaceContainerHighest:#E0E4EC;--outline:#737B8C;--outlineVariant:#D3D8E2;--inverseSurface:#2A2F38;--inverseOnSurface:#EFF1F6;--inversePrimary:#AEC4FF;--scrim:#000000;--success:#17713A;--onSuccess:#FFFFFF;--successContainer:#DDF2E3;--onSuccessContainer:#0B4A24;--warning:#8A5300;--onWarning:#FFFFFF;--warningContainer:#FFEFC7;--onWarningContainer:#5A3600;--urgent:#B93D0A;--onUrgent:#FFFFFF;--urgentContainer:#FFE6D8;--onUrgentContainer:#6E2304;--today:#B3261E;--onToday:#FFFFFF;--whatsappBrand:#25D366;"><div class="sb"><span>9:41</span><span><span class="ms " aria-hidden="true">signal_cellular_alt</span><span class="ms " aria-hidden="true">wifi</span><span class="ms " aria-hidden="true">battery_full</span></span></div><div class="content center" style="text-align:center;gap:16px;align-items:center"><div class="ic-circle" style="background:var(--primaryContainer);width:96px;height:96px"><span class="ms f s48" style="color:var(--primary)" aria-hidden="true">system_update</span></div><div class="hm">ज़रूरी अपडेट</div><div class="bl mu">नए वर्ज़न में अलर्ट सही समय पर आते हैं। आगे बढ़ने के लिए अपडेट करें।</div></div><div class="bab"><div class="btn p ">अपडेट करें</div></div><div class="nav" style="background:var(--surfaceContainer)"><i></i></div></div><figcaption><b>S41</b> · Force update (P0)</figcaption></figure></div></section><section class="group" id="gH"><h2>H · Dark mode</h2><div class="row"><figure><div class="phone dark" style="--primary:#AEC4FF;--onPrimary:#0B2A6E;--primaryContainer:#22408C;--onPrimaryContainer:#DCE5FF;--secondary:#BAC6E3;--onSecondary:#24304A;--secondaryContainer:#3A4660;--onSecondaryContainer:#DCE3F7;--tertiary:#FFB977;--onTertiary:#4F2600;--tertiaryContainer:#472500;--onTertiaryContainer:#FFDDBC;--error:#FFB4AB;--onError:#690005;--errorContainer:#5A1611;--onErrorContainer:#FFDAD5;--background:#11141B;--onBackground:#E5E8EF;--surface:#11141B;--onSurface:#E5E8EF;--surfaceVariant:#2D3340;--onSurfaceVariant:#B5BCC9;--surfaceContainerLowest:#0C0F14;--surfaceContainerLow:#171B23;--surfaceContainer:#1B2029;--surfaceContainerHigh:#232833;--surfaceContainerHighest:#2D3340;--outline:#8C93A1;--outlineVariant:#3E4552;--inverseSurface:#E5E8EF;--inverseOnSurface:#2A2F38;--inversePrimary:#1F4FB8;--scrim:#000000;--success:#7FD49A;--onSuccess:#003919;--successContainer:#123B22;--onSuccessContainer:#C9F0D4;--warning:#F1C25A;--onWarning:#3F2D00;--warningContainer:#3B2B06;--onWarningContainer:#FFE3A3;--urgent:#FFB28C;--onUrgent:#511E00;--urgentContainer:#4A1E07;--onUrgentContainer:#FFDCCB;--today:#FFB4AB;--onToday:#410E0B;--whatsappBrand:#25D366;"><div class="sb"><span>9:41</span><span><span class="ms " aria-hidden="true">signal_cellular_alt</span><span class="ms " aria-hidden="true">wifi</span><span class="ms " aria-hidden="true">battery_full</span></span></div><div class="tb"><div class="t brand">Sarkari Match</div><div class="ib"><span class="ms " aria-hidden="true">notifications</span><span class=bd>2</span></div><div class="ib"><span class="ms " aria-hidden="true">help</span></div><div class="ib"><span class="ms " aria-hidden="true">more_vert</span></div></div><div class="content" style="padding-top:0"><div><div class="bl">नमस्ते, Ravi</div><div class="bs mu">आज 19 नवंबर · 5 नौकरियाँ आपका जवाब माँग रही हैं</div></div>
 <div class="sec"><span class="ms f no" aria-hidden="true">alarm</span>आज आखिरी दिन<span class="cnt">1</span></div>
 <div class="card"><div class="stripe" style="background:var(--today)"></div><div class="chips"><span class="chip v-ok"><span class="ms f " aria-hidden="true">check_circle</span>योग्य</span><span class="chip d-today"><span class="ms f " aria-hidden="true">alarm</span>आज आखिरी दिन</span></div><div class="tm">UP Police कांस्टेबल भर्ती 2026</div><div class="bs mu" style="margin-top:-6px">UPPRPB · 19,220 पद</div><div class="meta"><span><span class="ms " aria-hidden="true">currency_rupee</span>₹400 फ़ीस</span><span><span class="ms " aria-hidden="true">school</span>12वीं पास</span><span><span class="ms " aria-hidden="true">event</span>आज रात 11 बजे तक</span></div><div class="rule"><span class="ms f ok">check_circle</span><div><b>उम्र:</b> 23 (सीमा 22, OBC +5 = 27)</div></div><div class="div"></div><div class="acts"><div class="btn tn sm "><span class="ms " aria-hidden="true">task_alt</span>फ़ॉर्म भर दिया</div><div class="btn t ">बाद में</div><div class="ib" style="margin-left:auto"><span class="ms " aria-hidden="true">more_vert</span></div></div></div>
 <div class="sec"><span class="ms f " aria-hidden="true">timer</span>जल्द ख़त्म<span class="cnt">1</span></div>
